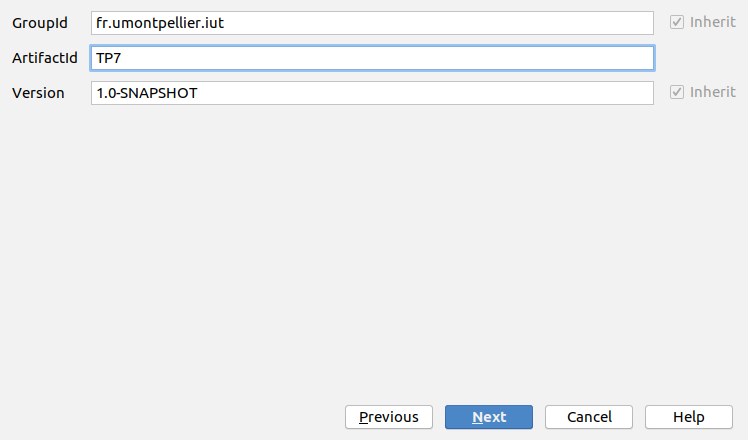
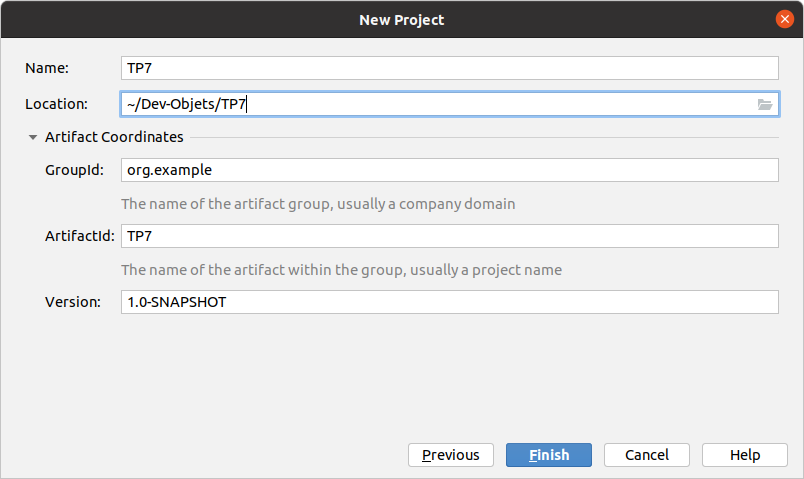
simplification menus de création

diff --git a/README.md b/README.md
@@ -101,10 +101,11 @@ libre à vous d'adapter ce tutoriel pour un autre IDE que vous préférez.
 
    Choisissez le modèle _Maven_ et vérifiez que la SDK correspond à une version supérieure à _Java 17_ &rightarrow; _Next_
 
-3. Dans la fenêtre ci-dessous vous devez indiquer les informations permettant d'identifier votre projet parmi la liste
-   des projets que vous avez déjà créés :
+3. Une fenêtre comme cell-ci se présente : 
 
    ![](ressources/CreationAvecMaven2.png)
+   
+   Vous devez indiquer le répertoire où va résider votre projet, ainsi que les informations permettant d'identifier ce projet parmi la liste des projets que vous avez déjà créés :
 
     * **GroupId** donne un identifiant à votre projet. Puisque nous construisons un projet _Java_, il faudrait respecter les conventions de nommage du langage. Ici la convention est la même que pour les packages : on indique le domaine dans l'ordre inverse. Par exemple, `org.apache.maven`, `org.apache.commons`. Pour ce TP vous allez choisir `fr.umontpellier.iut`.
 
@@ -112,18 +113,12 @@ libre à vous d'adapter ce tutoriel pour un autre IDE que vous préférez.
 
     * **version** - le nom de version si ce code est destiné à être distribué. Ici vous pouvez laisser `1.0-SNAPSHOT`. Cela voudra dire qu'il s'agit de la version _en cours de développement_ de la version 1.0 de votre logiciel. Pour la version définitive, le mot-clé SNAPSHOT devra être enlevé.
 
-   Cliquez sur _Next_.
+   Cliquez sur _Finish_.
 
-4. La page suivante vous permet d'indiquer le répertoire où va résider votre projet :
-
-   ![](ressources/CreationAvecMaven3.png)
-
-   Après avoir indiqué le répertoire, cliquez sur _Finish_.
-
-5. Et voilà, vous venez de créer un projet _Java_ en suivant la convention **Maven**. La page que vous allez trouver, va rassembler
+4. Et voilà, vous venez de créer un projet _Java_ en suivant la convention **Maven**. La page que vous allez trouver, va rassembler
    à quelque chose comme ceci :
 
-   ![](ressources/CreationAvecMaven4.png)
+   ![](ressources/CreationAvecMaven3.png)
 
    Notez le fichier XML qui vous sera affiché (`pom.xml`). Ce fichier, appelé
    [_Project Object Model_](https://maven.apache.org/guides/introduction/introduction-to-the-pom.html), contient
@@ -183,7 +178,7 @@ libre à vous d'adapter ce tutoriel pour un autre IDE que vous préférez.
     * https://maven.apache.org/what-is-maven.html
     * https://maven.apache.org/guides/introduction/introduction-to-the-pom.html
 
-6. Après avoir effectué les premières modifications du fichier POM de votre projet, il faudra penser indiquer à votre IDE
+5. Après avoir effectué les premières modifications du fichier POM de votre projet, il faudra penser indiquer à votre IDE
    quand est-ce que vous aimeriez qu'il prenne en compte les changements de ce fichier. Une fenêtre comme celle-ci devrait
    apparaître (en bas à droite de votre écran) :
 
@@ -192,8 +187,7 @@ libre à vous d'adapter ce tutoriel pour un autre IDE que vous préférez.
    Pour faire plus simple, vous pouvez choisir l'option _Enable Auto-Import_ afin que tout changement du fichier POM soit
    pris en compte immédiatement.
 
-
-7. Maintenant, que votre projet est prêt, n'oubliez pas de versionner votre travail avec Git. On vous rappelle rapidement les commandes Git à exécuter dans le terminal (attention, si vous utilisez votre IDE pour faire cela, lisez/vérifiez avant de cliquer...) :
+6. Maintenant, que votre projet est prêt, n'oubliez pas de versionner votre travail avec Git. On vous rappelle rapidement les commandes Git à exécuter dans le terminal (attention, si vous utilisez votre IDE pour faire cela, lisez/vérifiez avant de cliquer...) :
 
     * initialisez la racine de votre projet _Java_ (qui s'appelle sans doute _TP7_) comme un dépôt Git
     * ajoutez votre dépôt privé distant comme _remote_ : `git remote add origin git@gitlabinfo.iutmontp.univ-montp2.fr:dev-objets/VOTRELOGIN/TP7` (si vous passez par _ssh_)
